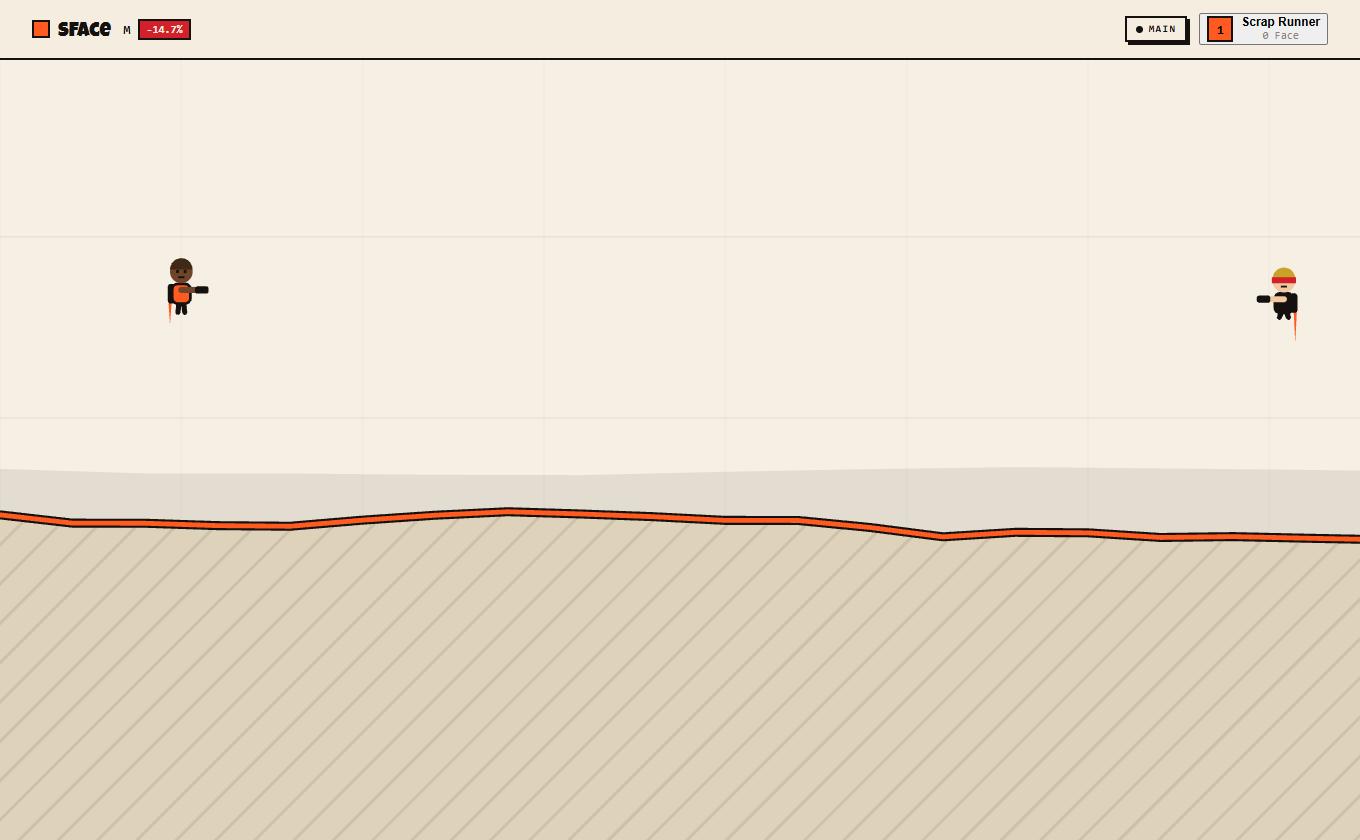
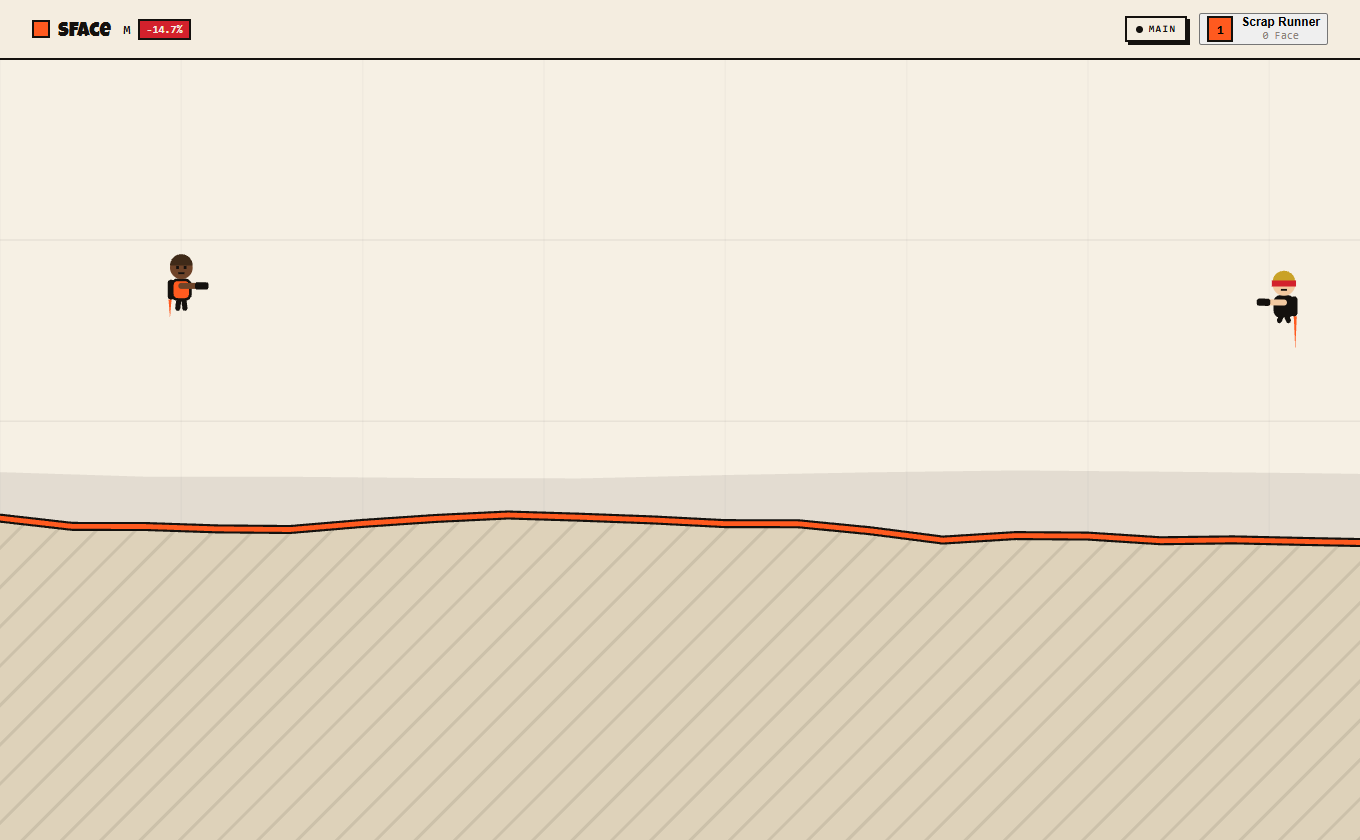
The ring city was too far away to read

Changed region(s): [[0.0, 0.5881, 1.0, 0.65], [0.9265, 0.3095, 0.9574, 0.4024], [0.1235, 0.3095, 0.1544, 0.3714]]

diff --git a/src/render/camera.ts b/src/render/camera.ts
@@ -128,8 +128,20 @@ export class Camera {
    * exist to stop a desktop seeing more of a LEVEL than a phone. This changes
    * both devices by the same factor, so the fairness the caps protect is
    * untouched.
+   *
+   * It was 2.6, and that was too far by a long way. Everything drew at under
+   * forty per cent: people became specks, and telling an ally you have to walk
+   * to from an attacker you have to avoid meant squinting at two four-pixel
+   * shapes. A stage about going and looking at things does not survive not
+   * being able to see them, and a phone had it worst because the same fraction
+   * of a smaller screen is a smaller number of actual pixels.
+   *
+   * The overview job belongs to the ring map in the corner, which draws every
+   * wall, every gap and where you are, and does it without shrinking the world
+   * you are standing in. This only has to pull back far enough that a wall
+   * reads as curved rather than straight.
    */
-  static readonly RING_ZOOM_OUT = 2.6;
+  static readonly RING_ZOOM_OUT = 1.75;
 
   /** Widen the view for a world that has to be read at a distance. */
   zoomOut(factor: number): void {
